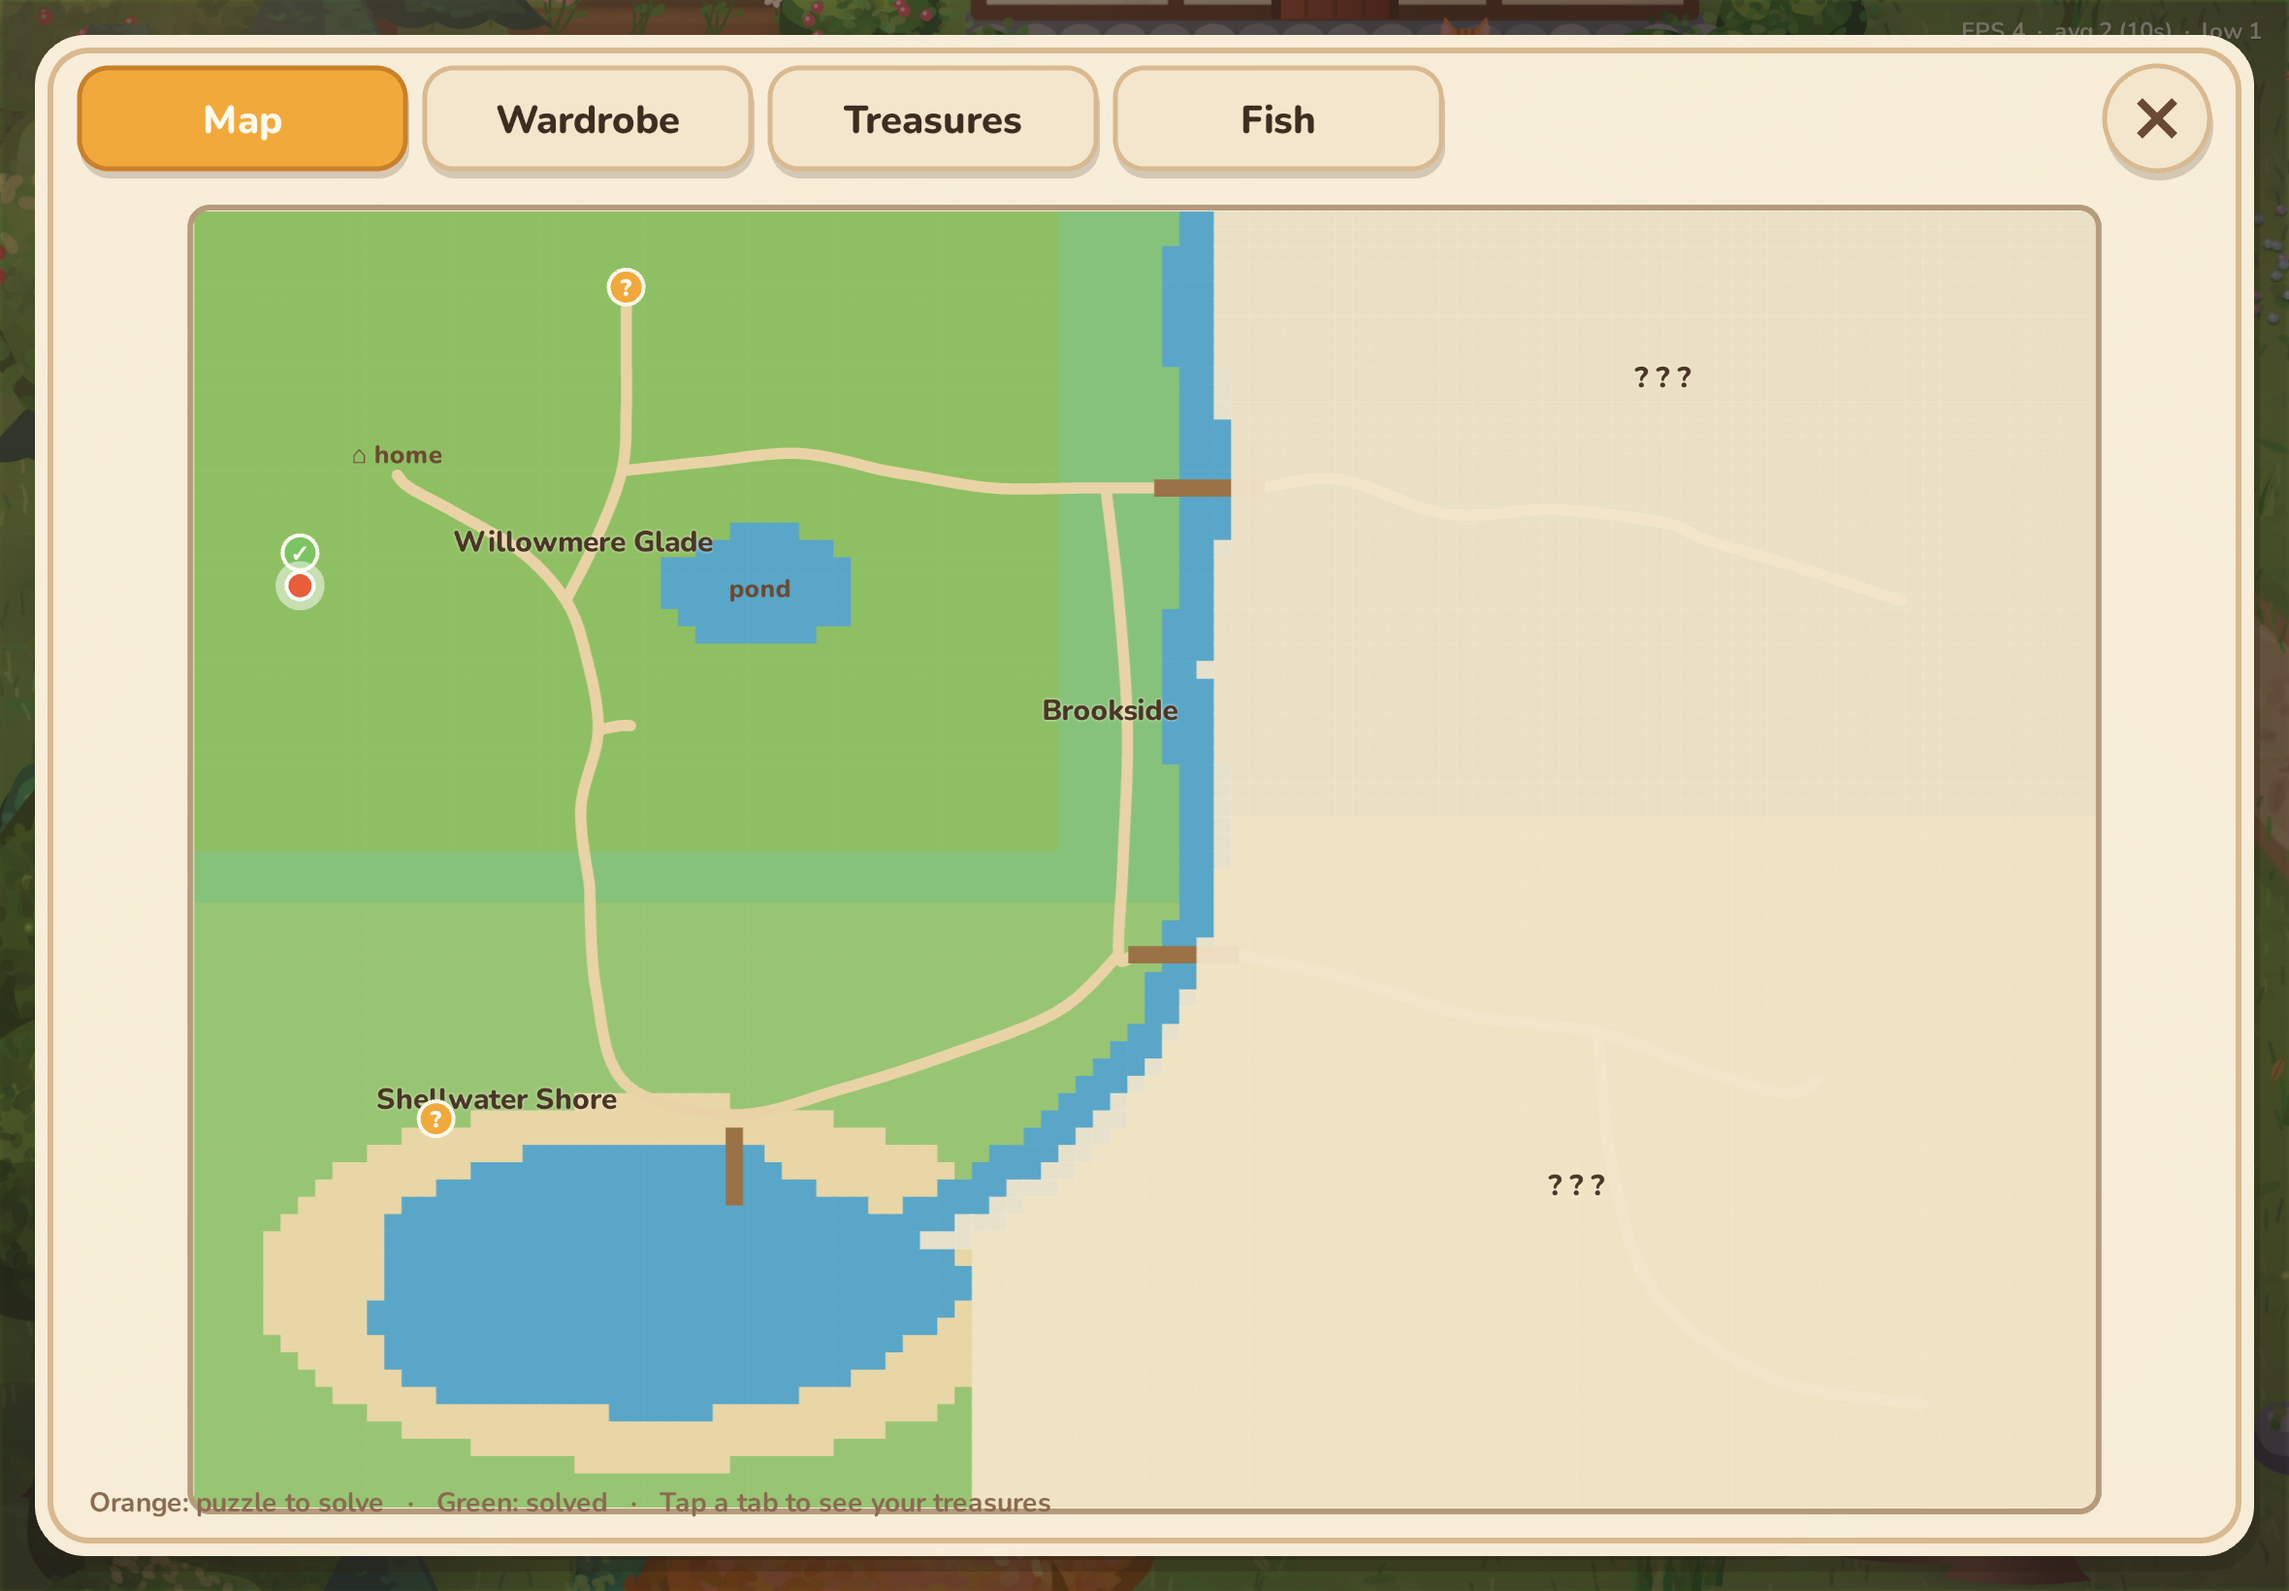
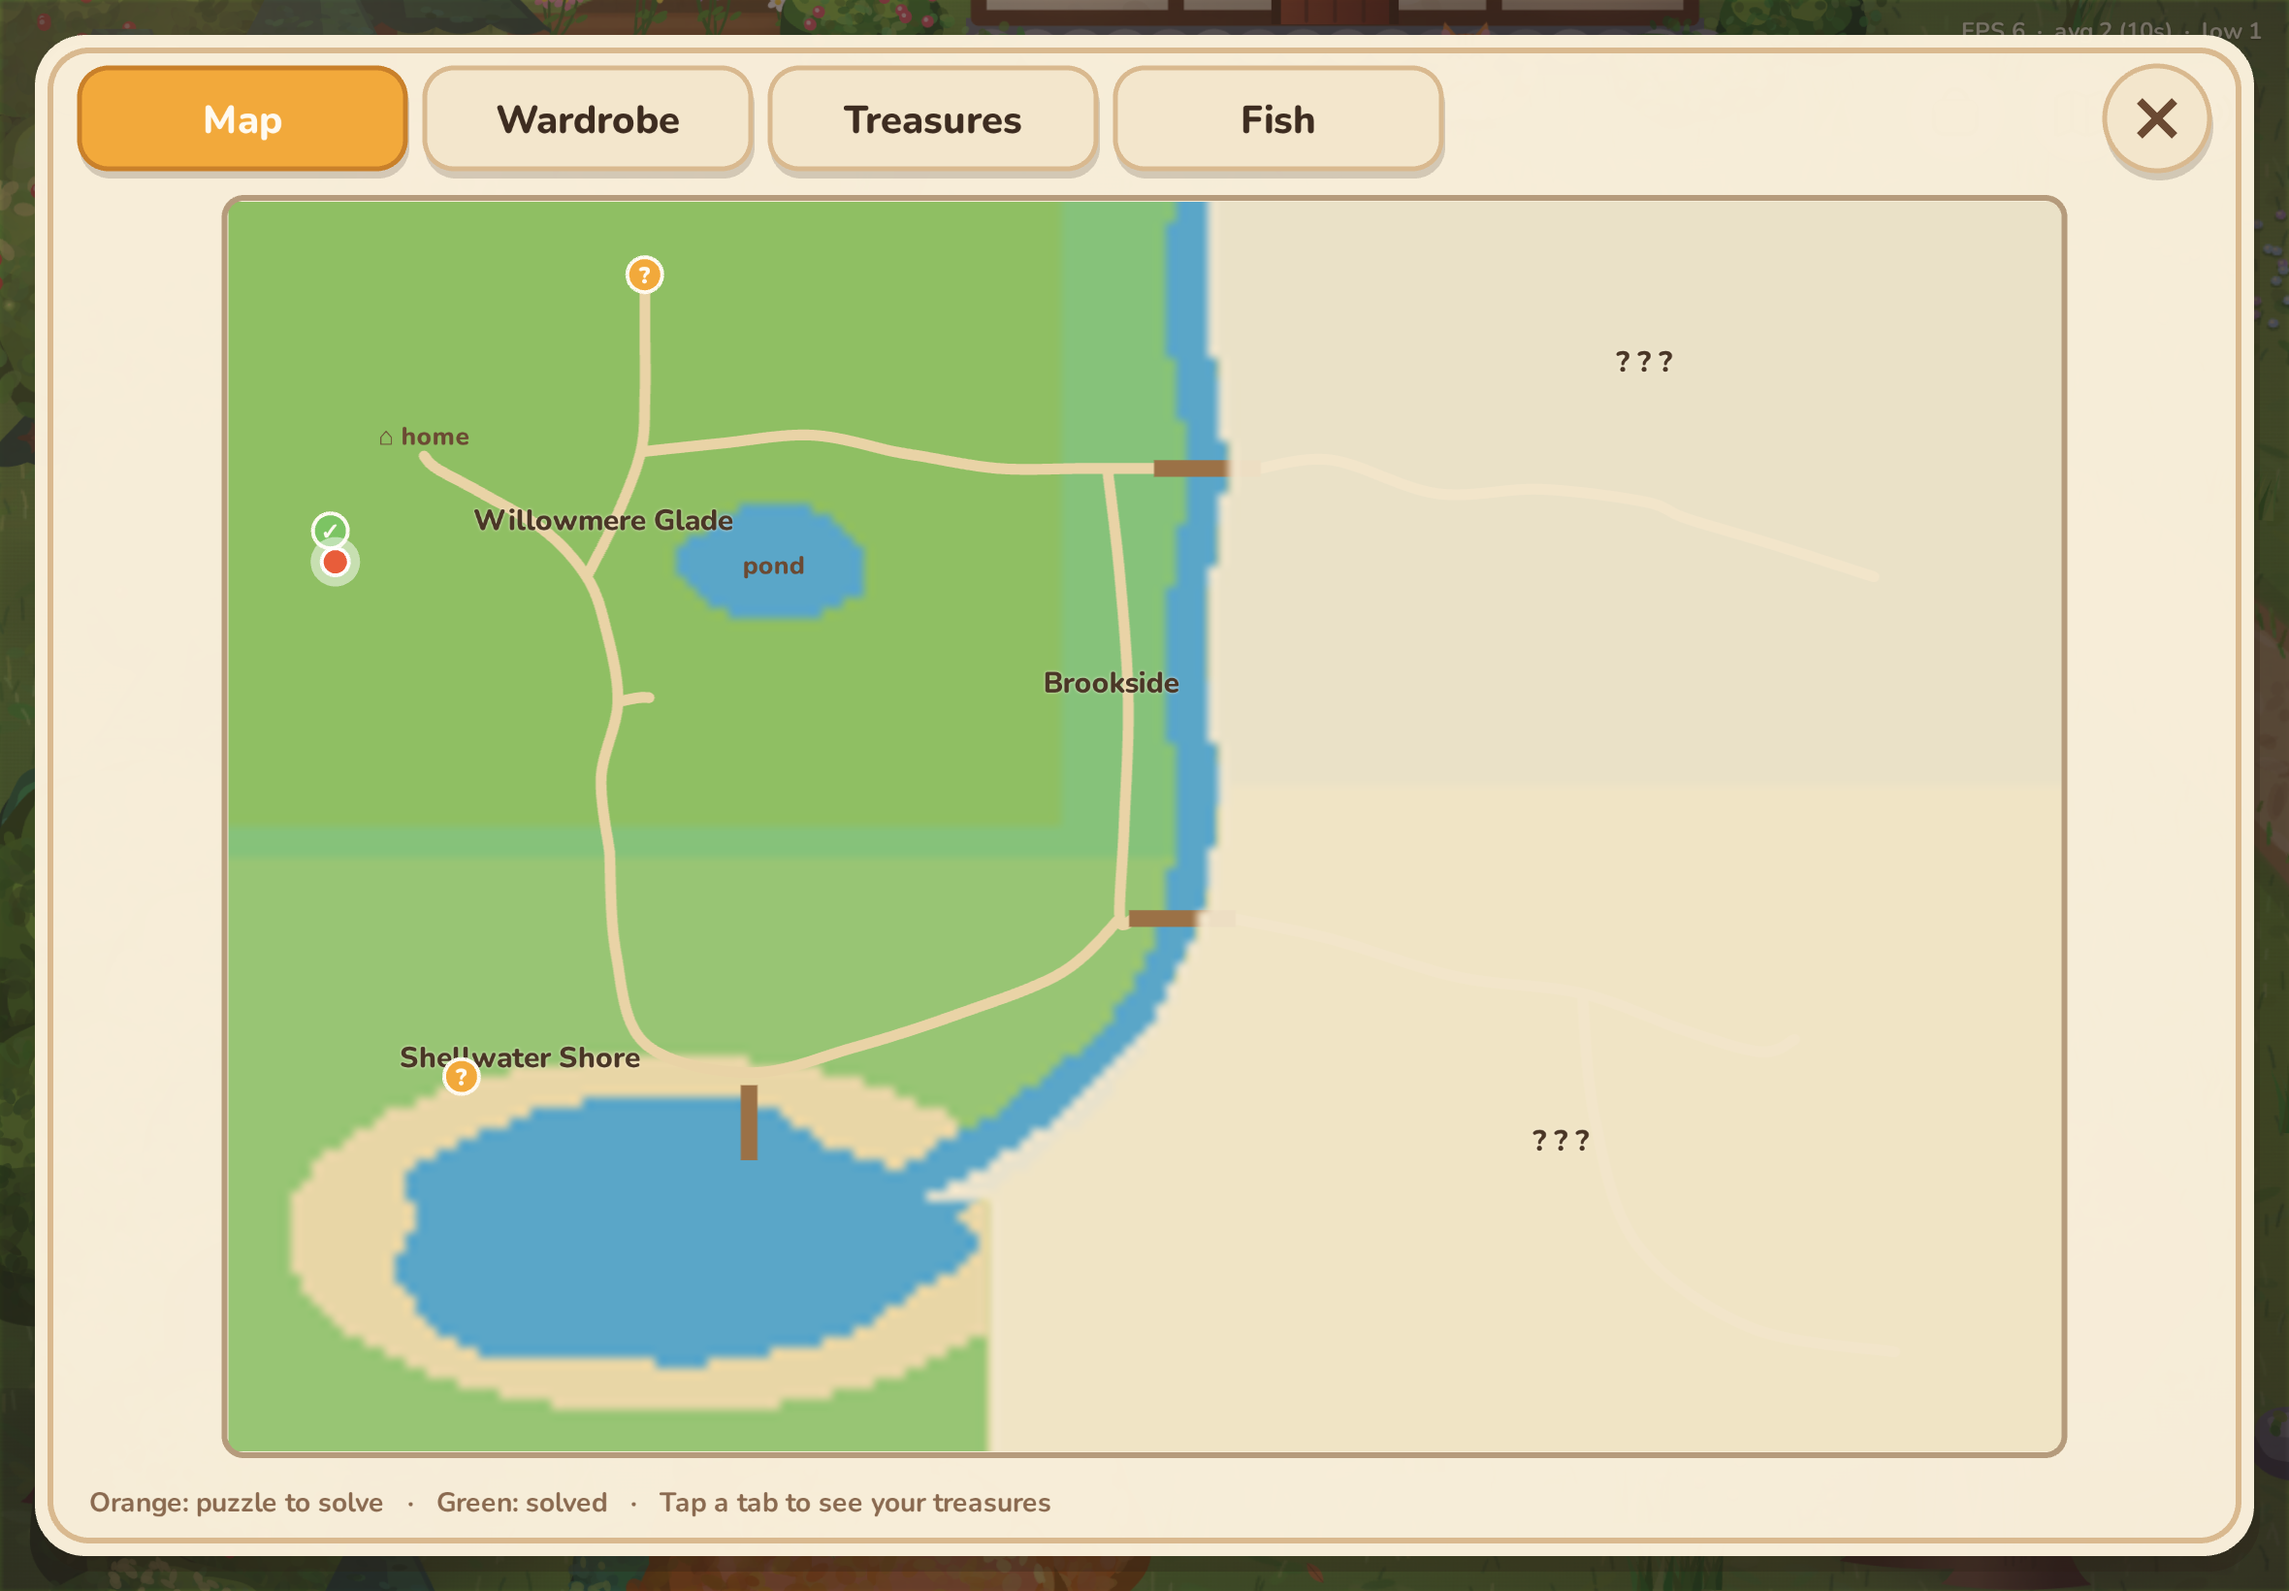
Fishing: judge reel taps at the input timestamp; smoother minimap

diff --git a/src/scenes/Menu.ts b/src/scenes/Menu.ts
@@ -136,9 +136,9 @@ export class MenuScene extends Phaser.Scene {
 
   // ------------------------------------------------------------ map
   renderMap(a: { x: number; y: number; w: number; h: number }) {
-    const s = Math.min(a.w / WORLD_W, (a.h - 10) / WORLD_H);
+    const s = Math.min(a.w / WORLD_W, (a.h - 34) / WORLD_H);
     const mw = WORLD_W * s, mh = WORLD_H * s;
-    const mx = a.x + (a.w - mw) / 2, my = a.y + (a.h - mh) / 2;
+    const mx = a.x + (a.w - mw) / 2, my = a.y + (a.h - 34 - mh) / 2;
     this.mapGeom = { x: mx, y: my, s };
     const key = 'minimap';
     const px = Math.ceil(mw * DPR), ph = Math.ceil(mh * DPR);
@@ -147,25 +147,34 @@ export class MenuScene extends Phaser.Scene {
     const c = canvas.getContext('2d')!;
     const k = px / WORLD_W;
     const cols: Record<AreaId, string> = { glade: '#8fbf63', river: '#86c27a', forest: '#6f9e7a', orchard: '#c2c46a', lake: '#98c574' };
-    const cell = 40;
-    for (let y = 0; y < WORLD_H; y += cell) for (let x = 0; x < WORLD_W; x += cell) {
-      const cx = x + cell / 2, cy = y + cell / 2;
+    // Sample the world coarsely into a tiny canvas, then upscale with smoothing for soft painted edges.
+    const cell = 25;
+    const cw = Math.ceil(WORLD_W / cell), chh = Math.ceil(WORLD_H / cell);
+    const lo = document.createElement('canvas'); lo.width = cw; lo.height = chh;
+    const lc = lo.getContext('2d')!;
+    const fog = document.createElement('canvas'); fog.width = cw; fog.height = chh;
+    const fc = fog.getContext('2d')!;
+    fc.fillStyle = 'rgba(243,230,204,0.93)';
+    for (let j = 0; j < chh; j++) for (let i = 0; i < cw; i++) {
+      const cx = i * cell + cell / 2, cy = j * cell + cell / 2;
       const ar = areaAt(cx, cy);
       const wa = waterAt(cx, cy);
       const lake = ar === 'lake' && !wa ? Math.hypot((cx - 1050) / 700, (cy - 2480) / 330) : 9;
-      c.fillStyle = wa ? '#5aa6c8' : lake < 1.3 ? '#e8d6a6' : cols[ar];
-      c.fillRect(x * k, y * k, cell * k + 0.6, cell * k + 0.6);
+      lc.fillStyle = wa ? '#5aa6c8' : lake < 1.3 ? '#e8d6a6' : cols[ar];
+      lc.fillRect(i, j, 1, 1);
+      if (!save.visited.includes(ar)) fc.fillRect(i, j, 1, 1);
     }
+    c.imageSmoothingEnabled = true;
+    c.imageSmoothingQuality = 'high';
+    c.drawImage(lo, 0, 0, px, ph);
     c.strokeStyle = '#e9d3a6'; c.lineWidth = 26 * k; c.lineCap = 'round'; c.lineJoin = 'round';
     for (const p of ALL_PATHS) { c.beginPath(); p.forEach(([x, y], i) => (i ? c.lineTo(x * k, y * k) : c.moveTo(x * k, y * k))); c.stroke(); }
     c.fillStyle = '#9b7146';
     for (const b of Object.values(BRIDGES)) c.fillRect((b.x - b.half) * k, (b.y - 20) * k, b.half * 2 * k, 40 * k);
     c.fillRect((PIER.x - 20) * k, PIER.y0 * k, 40 * k, (PIER.y1 - PIER.y0) * k);
     // Unvisited areas stay misty.
-    c.fillStyle = 'rgba(243,230,204,0.92)';
-    for (let y = 0; y < WORLD_H; y += cell) for (let x = 0; x < WORLD_W; x += cell) {
-      if (!save.visited.includes(areaAt(x + cell / 2, y + cell / 2))) c.fillRect(x * k, y * k, cell * k + 0.6, cell * k + 0.6);
-    }
+    c.drawImage(fog, 0, 0, px, ph);
+    lo.width = lo.height = fog.width = fog.height = 1;
     if (this.textures.exists(key)) this.textures.remove(key);
     this.textures.addImage(key, canvas as unknown as HTMLImageElement);
     canvas.width = 1; canvas.height = 1;

diff --git a/src/fishing.ts b/src/fishing.ts
@@ -98,9 +98,10 @@ export class Fishing {
   }
 
   /** Any tap / action press while fishing. */
-  tap() {
+  /** at: the input event's timestamp (performance clock), so a dropped frame never costs a fair tap. */
+  tap(at?: number) {
     if (this.state === 'bite') { this.startReel(); return; }
-    if (this.state === 'reel') { this.reelTap(); return; }
+    if (this.state === 'reel') { this.reelTap(at); return; }
     if (this.state === 'wait' || this.state === 'cast') { this.cancel('You reel the line back in.'); return; }
   }
 
@@ -141,9 +142,10 @@ export class Fishing {
     return 0.5 + 0.5 * Math.sin((now - r.t0) / 1000 * r.speed * Math.PI);
   }
 
-  reelTap() {
+  reelTap(at?: number) {
     const r = this.reel!;
-    const pos = this.markerPos();
+    const now = performance.now();
+    const pos = this.markerPos(at && at > now - 400 && at <= now ? at : now);
     const ok = Math.abs(pos - r.zone) <= r.width / 2;
     r.flash = 0.35; r.flashOk = ok;
     sfx.reel(ok);

diff --git a/src/scenes/UI.ts b/src/scenes/UI.ts
@@ -474,7 +474,7 @@ export class UIScene extends Phaser.Scene {
       if (this.cardOpen) { this.closeCard(); return; }
       if (this.registry.get('dialogOpen')) { this.world.tryInteract(); return; }
       const fs = this.world.fishing?.state;
-      if (fs === 'bite' || fs === 'reel') { this.world.fishing.tap(); return; }
+      if (fs === 'bite' || fs === 'reel') { this.world.fishing.tap(p.downTime); return; }
       if (this.stickPointer) return;
       this.stickPointer = p;
       this.stickStart = { x: p.x / DPR, y: p.y / DPR };
